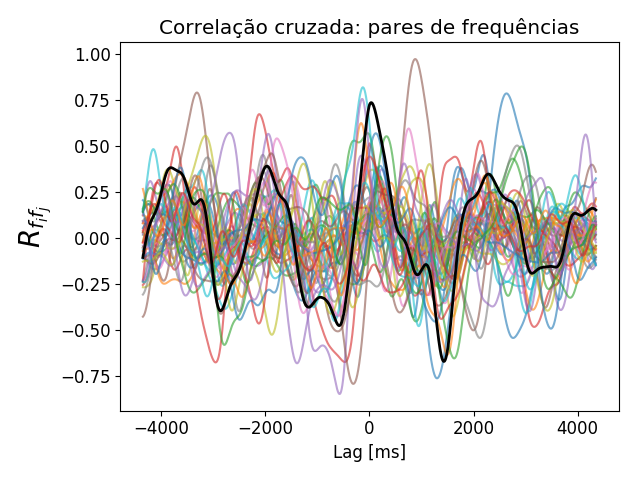
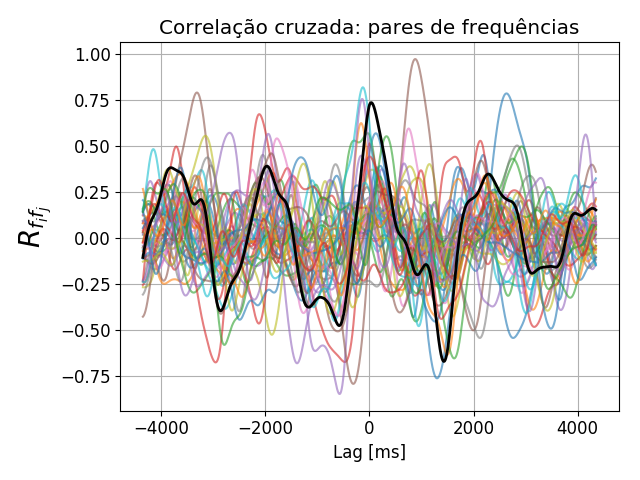
Final

diff --git a/TC2/develop/tarefa2.py b/TC2/develop/tarefa2.py
@@ -32,8 +32,8 @@ Fs = data['Fs'][0][0]
 x = np.array(data['input'])
 y = np.array(data['output'])
 
-fxy,Sxy = csd(x.transpose(),y.transpose(),fs=Fs,scaling='spectrum')
-fxx,Sxx = csd(x.transpose(),x.transpose(),fs=Fs,scaling='spectrum')
+fxy,Sxy = csd(x.transpose(),y.transpose(),fs=Fs,scaling='spectrum',nperseg=100000)
+fxx,Sxx = csd(x.transpose(),x.transpose(),fs=Fs,scaling='spectrum',nperseg=100000)
 H = Sxy[0]/Sxx[0]
 if all(fxy==fxx):
     f = fxx
@@ -42,14 +42,14 @@ else:
 
 fig1,axs = plt.subplots(2,1)
 #plt.xlabel(u'Frequências amostradas [Hz]')
-axs[0].semilogx(f,20*np.log10(np.abs(H)),'.-')
+axs[0].semilogx(f,20*np.log10(np.abs(H)))
 axs[0].set_ylabel(r'$|\hat{H}(jw)|$ [dB]') # Resposta em frequência estimada')
 axs[0].set_xlim(xmax=100)
 axs[0].set_ylim(ymin=-75)
 axs[0].grid(which='both')
 
 #axs[1].semilogx(f,np.angle(H,deg=True),'.-')
-axs[1].semilogx(f,np.concatenate((np.array([np.angle(H[0],deg=True)]),np.rad2deg(np.unwrap(np.angle(H[1:]))))),'.-')
+axs[1].semilogx(f,np.rad2deg(np.unwrap(np.angle(H))))
 axs[1].set_xlabel(u'Frequências amostradas [Hz]')
 axs[1].set_ylabel(r'$\angle{\hat{H}}(jw)$') # Resposta em frequência estimada')
 axs[1].set_xlim(xmax=100)
@@ -63,9 +63,28 @@ plt.savefig('../images/bode_itemb.png')
 # (b)
 print('\n(b)')
 
+wn_ang = np.rad2deg(np.unwrap(np.angle(H)))
+wn_idx = np.argwhere(wn_ang<=-90)[0]
+plt.vlines(2,-300,100,'green')
 #print(u'    Média: %.3f N'%force_avg)
 
 # (c) Estimativa de Frequência instantânea
 print('\n(c)')
+
+wn = 2 #Hz
+w = 2*np.pi*f
+Hwn = 4./(-np.power(w,2) + (0+4j)*w + 4)
+
+plt.figure()
+plt.semilogx(f,np.rad2deg(np.unwrap(np.angle(Hwn))),label='Calculado com wn')
+plt.semilogx(f,np.rad2deg(np.unwrap(np.angle(H))),label='Estimado')
+plt.xlabel(u'Frequências amostradas [Hz]')
+plt.ylabel(r'$\angle{H}(jw)$') # Resposta em frequência estimada')
+plt.xlim(xmax=100)
+plt.ylim((-220,10))
+plt.grid(which='both')
+
+plt.tight_layout()
+plt.savefig('../images/bodec.png')
 
 #print('%d & %.2f & %.2f & %.2f & %.2f & %.2f \\\\'%(neurons_id[i],isis_avg[i],isis_std[i],isis_cv[i],isis_skew[i],isis_kurt[i]))

diff --git a/TC2/develop/tarefa1.py b/TC2/develop/tarefa1.py
@@ -180,8 +180,11 @@ plt.xlabel('Lag [ms]')
 plt.ylabel(r'$R_{Force,Freq}}$')
 for i in range(10):
     plt.plot(t_est-t_est.min()-(t_est.max()-t_est.min())/2.,xcorr_force[i])
+plt.grid()
+plt.xlim((-2000,2000))
 plt.savefig('../images/corr_force-freqs.png')
 autocorr_force = correlate(force,force,mode='same')
+
 plt.figure()
 plt.title(u'Correlação cruzada: pares de frequências')
 plt.xlabel('Lag [ms]')
@@ -200,6 +203,7 @@ freqxc_mean = freqxc.sum(axis=0)/N
 
 plt.plot(t_est-t_est.min()-(t_est.max()-t_est.min())/2.,freqxc_mean,'k',linewidth=2)
 plt.tight_layout()
+plt.grid()
 plt.savefig('../images/corr-freq-freq.png')
 
 for i in range(N):
